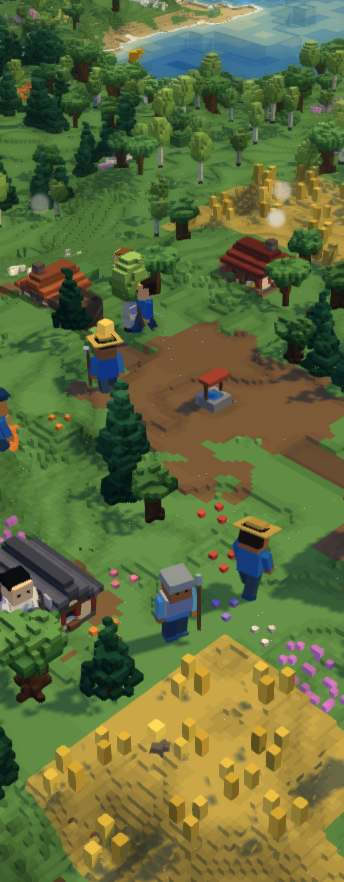
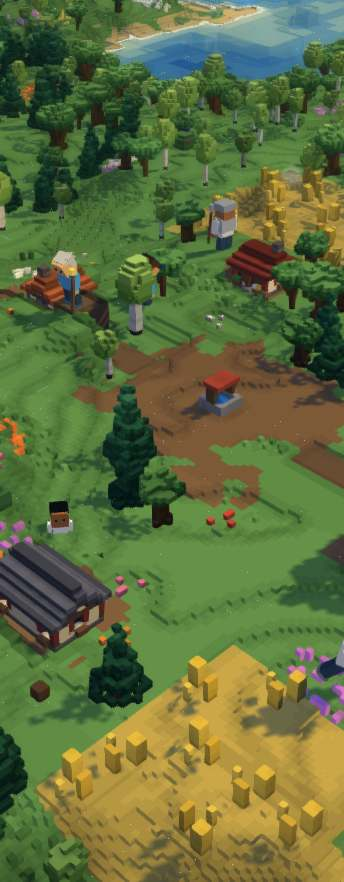
Looks: tone patches on models filled into cubes, lava meets land in small cubes
Wonders, stored box looks and cover models take four calm tones in patches a
few cubes across. The fine land meets lava in a wavy line of eighth cubes, as
it meets water, without foam. After frames rendered again at 344x882 and
700x830.

Claude-Session: https://claude.ai/code/session_01NxvtAnVeeSftkua711EPa8

diff --git a/src/sim/voxel/shapes.ts b/src/sim/voxel/shapes.ts
@@ -338,7 +338,10 @@ export function propLocal(p: Prop, simple = false, k = 1, mx = 0, my = 0): Local
       k === 1 && mx === 0 && my === 0
         ? boxes
         : boxes.map((b) => ({ ...b, x: (b.x - mx) * k, y: (b.y - my) * k, z: b.z * k, w: b.w * k, d: b.d * k, h: b.h * k }));
-    meshGrid(voxelize(sized, LOOK_VOXEL), out);
+    const g = voxelize(sized, LOOK_VOXEL);
+    // A stored look of plain boxes: its faces in soft patches of tone, as the land and the trees.
+    if (!isSoft(p)) tonePatches(g);
+    meshGrid(g, out);
     return out;
   }
   if (isSoft(p)) {
@@ -370,14 +373,56 @@ export function boxesInCubes(boxes: Box[]): LocalMesh {
   let m = inCubes.get(boxes);
   if (m) return m;
   m = { lit: { pos: [], col: [] }, glow: { pos: [], col: [] }, tris: 0 };
-  if (boxes.length)
-    meshGrid(
-      voxelize(
-        boxes.map((b) => ({ x: b.x, y: b.z, z: b.y, w: b.w, d: b.d, h: b.h, color: b.color, glow: false })),
-        LOOK_VOXEL,
-      ),
-      m,
+  if (boxes.length) {
+    const g = voxelize(
+      boxes.map((b) => ({ x: b.x, y: b.z, z: b.y, w: b.w, d: b.d, h: b.h, color: b.color, glow: false })),
+      LOOK_VOXEL,
     );
+    tonePatches(g);
+    meshGrid(g, m);
+  }
   inCubes.set(boxes, m);
   return m;
+}
+
+// A model of plain boxes in cubes reads as one smooth box (15 November, the owner: every asset in
+// the small cubes): its cubes take one of PATCH_TONES in soft patches a few cubes across, as the
+// land's ground and the trees' crowns do, calm rather than speckled. By the cube's place in the
+// model, so the same model is the same every time; what glows keeps its colour.
+const PATCH_TONES = [0.94, 0.98, 1.02, 1.05];
+const PATCH_CUBES = 3.5;
+function tonePatches(g: VoxelGrid): void {
+  const h = (x: number, y: number, z: number) => {
+    let v = Math.imul(x, 0x27d4eb2d) ^ Math.imul(y, 0x165667b1) ^ Math.imul(z, 0x1b873593);
+    v = Math.imul(v ^ (v >>> 15), 0x85ebca6b);
+    v = Math.imul(v ^ (v >>> 13), 0xc2b2ae35);
+    return ((v ^ (v >>> 16)) >>> 0) / 4294967296;
+  };
+  const smooth = (t: number) => t * t * (3 - 2 * t);
+  const noise = (px: number, py: number, pz: number) => {
+    const ix = Math.floor(px);
+    const iy = Math.floor(py);
+    const iz = Math.floor(pz);
+    const fx = smooth(px - ix);
+    const fy = smooth(py - iy);
+    const fz = smooth(pz - iz);
+    const lerp = (a: number, b: number, t: number) => a + (b - a) * t;
+    const plane = (z: number) => lerp(lerp(h(ix, iy, z), h(ix + 1, iy, z), fx), lerp(h(ix, iy + 1, z), h(ix + 1, iy + 1, z), fx), fy);
+    return lerp(plane(iz), plane(iz + 1), fz);
+  };
+  const [nx, ny, nz] = g.n;
+  const ox = Math.round(g.o[0] / g.s);
+  const oy = Math.round(g.o[1] / g.s);
+  const oz = Math.round(g.o[2] / g.s);
+  for (let z = 0; z < nz; z++)
+    for (let y = 0; y < ny; y++)
+      for (let x = 0; x < nx; x++) {
+        const i = (z * ny + y) * nx + x;
+        const c = g.color[i];
+        if (c < 0 || g.glow[i]) continue;
+        const n = noise((x + ox) / PATCH_CUBES, (y + oy) / PATCH_CUBES, (z + oz) / PATCH_CUBES);
+        const k = PATCH_TONES[Math.min(PATCH_TONES.length - 1, Math.floor(n * PATCH_TONES.length))];
+        const ch = (sh: number) => Math.max(0, Math.min(255, Math.round(((c >> sh) & 255) * k)));
+        g.color[i] = (ch(16) << 16) | (ch(8) << 8) | ch(0);
+      }
 }

diff --git a/src/sim/voxel/terrain-fine.ts b/src/sim/voxel/terrain-fine.ts
@@ -41,7 +41,8 @@ export interface FineCells {
   ground: Uint8Array;
   natural: Uint8Array; // 0: a built column (a trunk, a tower), drawn plain
   wet: Uint8Array;
-  water: Float32Array; // the water's surface over a wet water cell, or -1e9
+  water: Float32Array; // the surface over a wet water or lava cell, or -1e9
+  lava: Uint8Array; // 1 where that is lava (no foam)
   color: Uint32Array; // the top's colour
   edge: Uint32Array; // the first voxel of a wall
   soil: Uint32Array;
@@ -75,6 +76,7 @@ export function makeFineCells(): FineCells {
     natural: new Uint8Array(0),
     wet: new Uint8Array(0),
     water: new Float32Array(0),
+    lava: new Uint8Array(0),
     color: new Uint32Array(0),
     edge: new Uint32Array(0),
     soil: new Uint32Array(0),
@@ -108,6 +110,7 @@ export function sizeFineCells(f: FineCells, x0: number, y0: number, x1: number, 
     f.natural = new Uint8Array(n);
     f.wet = new Uint8Array(n);
     f.water = new Float32Array(n);
+    f.lava = new Uint8Array(n);
     f.color = new Uint32Array(n);
     f.edge = new Uint32Array(n);
     f.soil = new Uint32Array(n);
@@ -824,7 +827,7 @@ function foam(f: FineCells, out: Writer, sub: number, sx0: number, sy0: number, 
       const c = fineAt(f, Math.floor(sx / sub), Math.floor(sy / sub));
       const surface = f.water[c];
       let color = 0;
-      if (surface > -1e8 && H[s] * Q <= surface) {
+      if (surface > -1e8 && !f.lava[c] && H[s] * Q <= surface) {
         // How far the nearest land is, in columns (up to `reach`).
         let near = Infinity;
         for (let dy = -reach; dy <= reach && near > 1; dy++)

diff --git a/src/sim/voxel/terrain.ts b/src/sim/voxel/terrain.ts
@@ -564,7 +564,11 @@ export class Terrain {
         f.top[k] = top;
         f.ground[k] = g;
         f.wet[k] = this.wet[i];
-        f.water[k] = this.wet[i] && world.fluid[i] === F.WATER ? Math.max(surfaceY(world, i), top + FLUID_LIFT) : -1e9;
+        // Water and lava: the fine land's edge meets them in a wavy line of small cubes (lava since
+        // 15 November: its cell-shaped edge read as big cubes on the volcano).
+        const lava = world.fluid[i] === F.LAVA;
+        f.water[k] = this.wet[i] && (world.fluid[i] === F.WATER || lava) ? Math.max(surfaceY(world, i), top + FLUID_LIFT) : -1e9;
+        f.lava[k] = lava ? 1 : 0;
         const surface = this.fineTopColor(i);
         f.color[k] = surface;
         const built = this.fineBuilt(i);

diff --git a/docs/measurements/looks-audit-15nov/README.md b/docs/measurements/looks-audit-15nov/README.md
@@ -11,7 +11,7 @@ The owner, on main after #151, #159, #162 and #164: "Let's just keep 1/8 all the
 - Light: `day` (time 60) and `low` sun (time 194).
 - Sizes: 344 by 882 (the Fold folded) and 700 by 830 (unfolded).
 
-`main/` holds main at `64e2571`, 48 frames. `after/` holds this branch at 344 by 882. Three after frames are missing: the sand and peaks whole views, and the peaks whole at low sun, because one frame took more than 240 seconds in the software renderer (see the numbers below). Each folder's `frames.jsonl` has the triangles of each frame as the renderer counted them, the shadow pass included.
+`main/` holds main at `64e2571`, 48 frames. `after/` holds the finished branch at 344 by 882 and 700 by 830 (re-rendered after the second pass): every island at eye, close and mid, day and low sun, and the whole views by day. Each folder's `frames.jsonl` has the triangles of each frame as the renderer counted them, the shadow pass included.
 
 ## What looked wrong on main
 
@@ -180,3 +180,9 @@ The pan, zoom and orbit runs counted the same pixels with the old and new sun (t
 | whole | 0.42M | 5.44M      | 2.29M | 195 / 872 / 631 ms             |
 
 Close and mid are still about twice the 600 000 target. What is left is the land in view at eighths and its shadow pass. The only way under the target found here is coarser cubes far away, and the seam check says that shows.
+
+### 7. Last pass: tone patches, the lava's edge, frames at 700 by 830
+
+- **Tone patches on converted models.** Every model of plain boxes filled into cubes (wonders, stored spell looks, cover models) takes one of four tones (0.94, 0.98, 1.02, 1.05) in soft patches about 3.5 cubes across, by the cube's place in the model (`shapes.ts` `tonePatches`). What glows keeps its colour; soft looks keep their own design. See `assets/wonder-after-700x830.jpg`, `assets/looks-after-700x830.jpg`, `assets/cacti-after-700x830.jpg`.
+- **Lava's edge.** The fine land meets lava as it meets water: in a wavy line of small cubes just above the surface, without foam. The pool's edge no longer follows cells (`after/peaks-close-day-700x830-after.jpg`, `assets/lava-after-700x830.jpg`).
+- **Frames.** The second pass's after frames were rendered again at both sizes (`after/`). The crater rim is in fine cubes, and the lava is one calm colour with a 1/8 edge.
